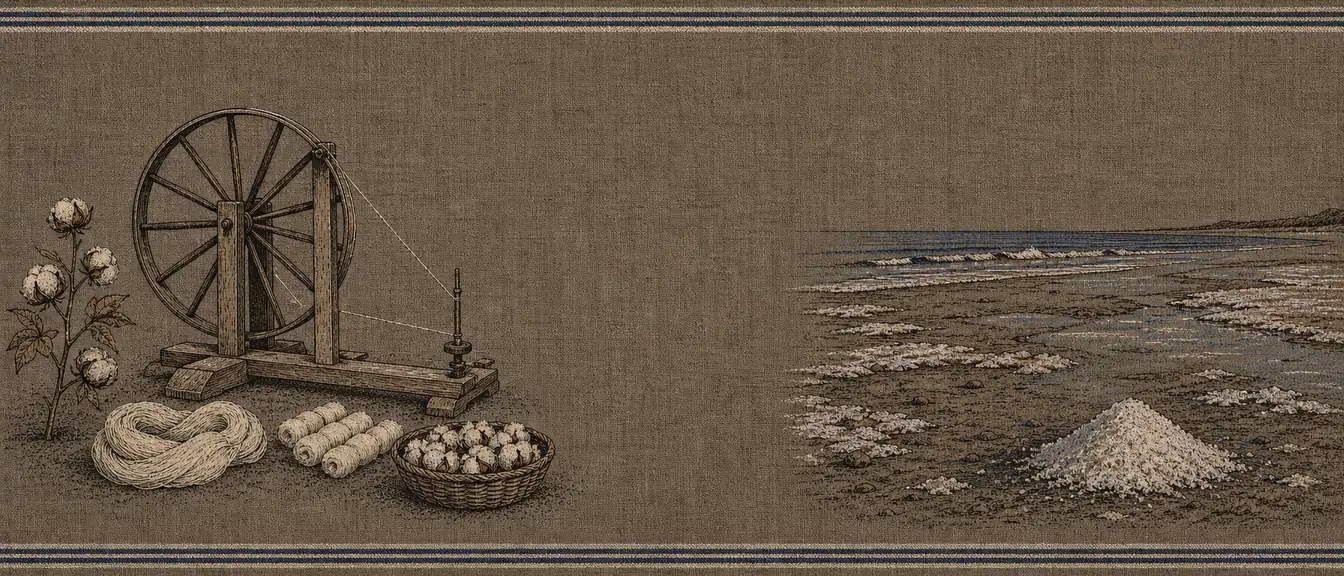
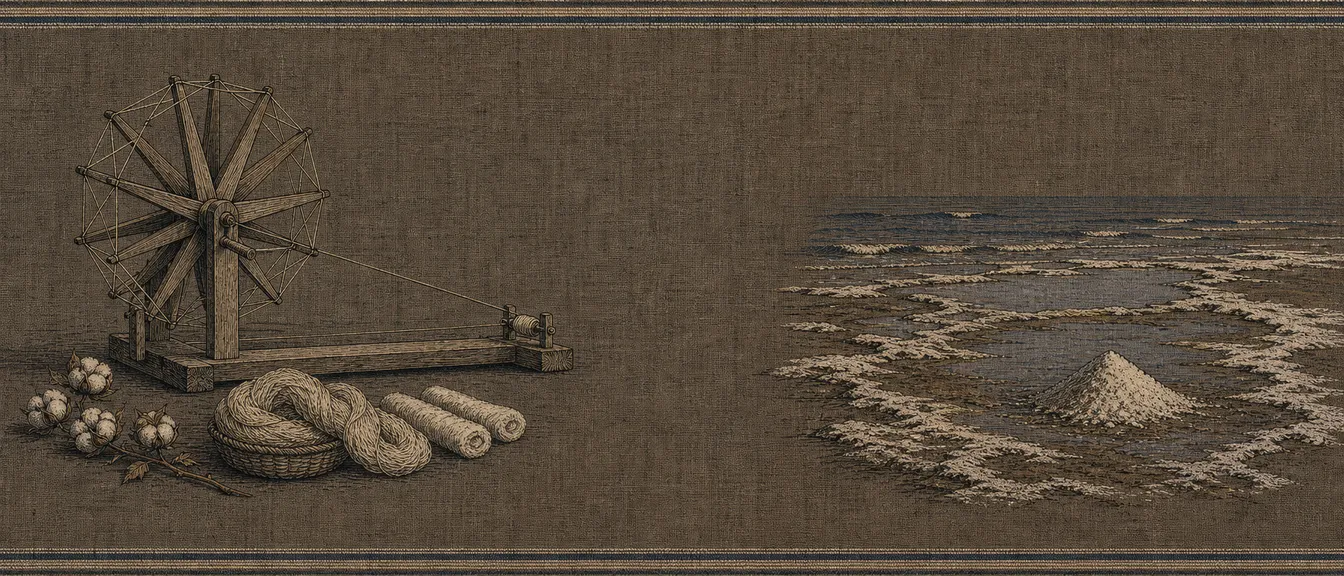
Anoria: Gandhi's mat redrawn with a true charkha (two stars of spokes, a cord-laced rim, no solid hoop)
Claude-Session: https://claude.ai/code/session_015uEsRw6hD2rgSarZKYnZDk

diff --git a/games/anoria/ui.js b/games/anoria/ui.js
@@ -687,7 +687,8 @@
   //   mandela: the valley, the stream, the hills, the three huts and the maize at Qunu are as Long Walk to Freedom
   //     describes them (read in quotation only); the beadwork's white and blue and the aloes rest on memory
   //   gandhi: the spinning wheel found at Vijapur, the slivers and khadi are his autobiography; the salt at Dandi
-  //     was read in summaries only
+  //     was read in summaries only. The wheel is the traditional charkha: two stars of spokes with cord laced
+  //     between their tips for a rim and no solid hoop (the first picture drew a solid wooden rim, and Tim had it redrawn)
   //   The first five: Franklin's kite of two cedar strips with a tail and a key is his own letter of 1752 (the kite
   //     was silk); Tubman's North Star is Bradford (1869); Leonardo's knots, solids and red chalk are in Muntz (1898);
   //     the lotus and papyrus are Owen Jones (1856); bamboo slips strung into books and the thunder scroll are
